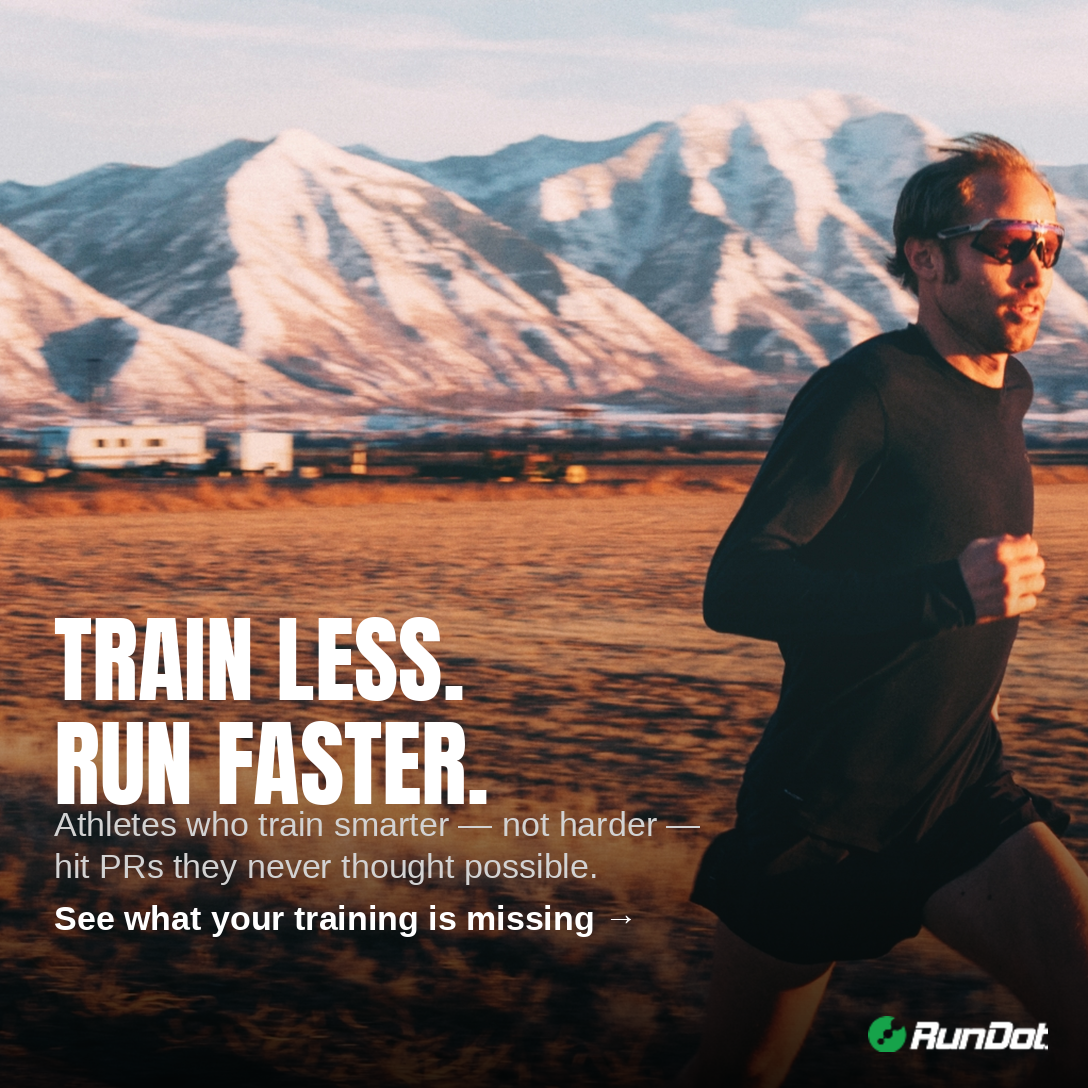
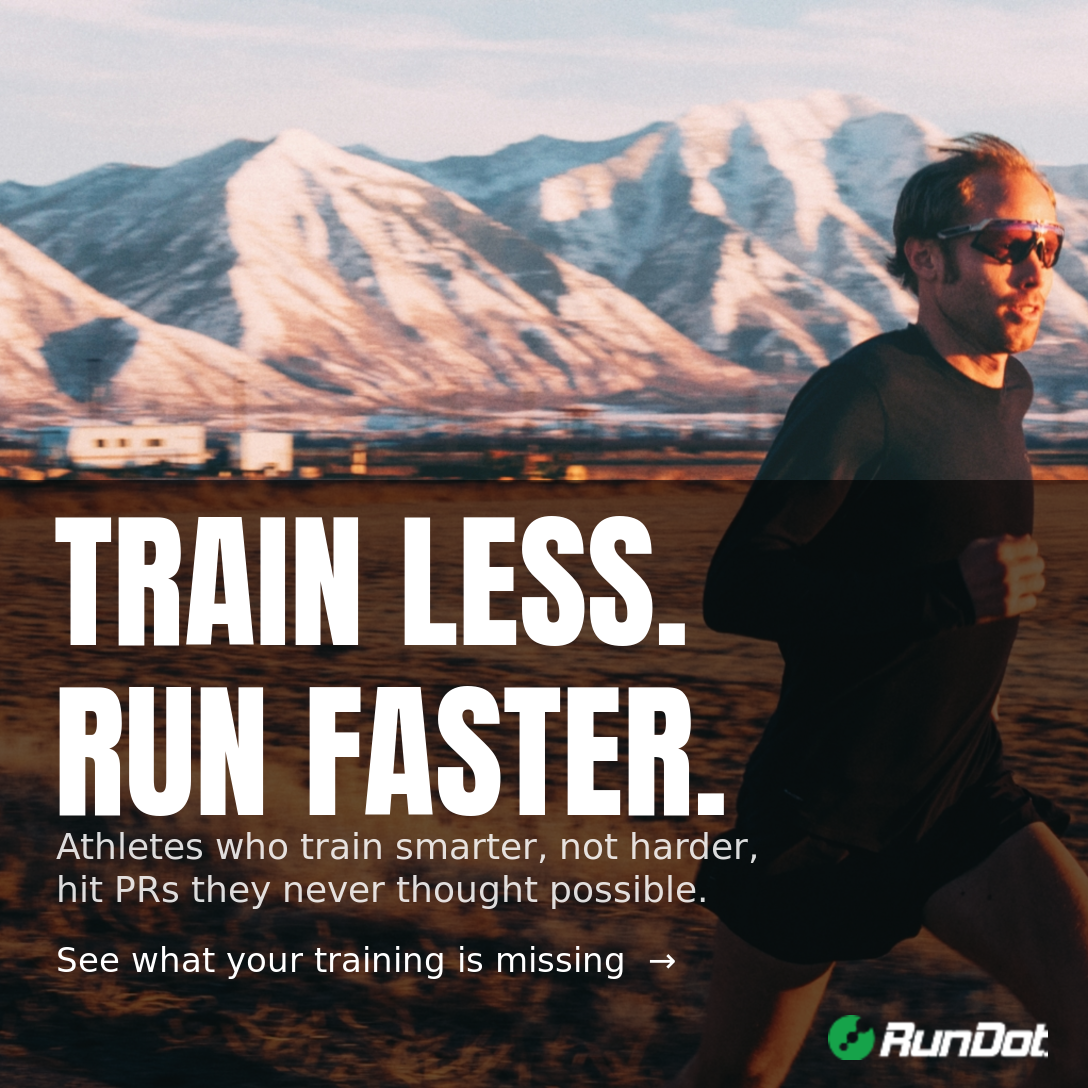
Apply consistent Anton type treatment to all RunDot mockups; remove em dashes; remove hero tagline and Meb Ambassador line

diff --git a/index.html b/index.html
@@ -296,7 +296,7 @@
     <span class="brand-badge rundot">RunDot</span>
     <span class="brand-stat">📸 <strong>@rundottraining</strong></span>
     <span class="brand-stat">IG ~4,600 · FB ~2,816</span>
-    <span class="brand-stat">Ambassador: <strong>Meb Keflezighi</strong></span>
+
   </div>
   <div class="mockup-grid">
     <div class="mockup-card">
